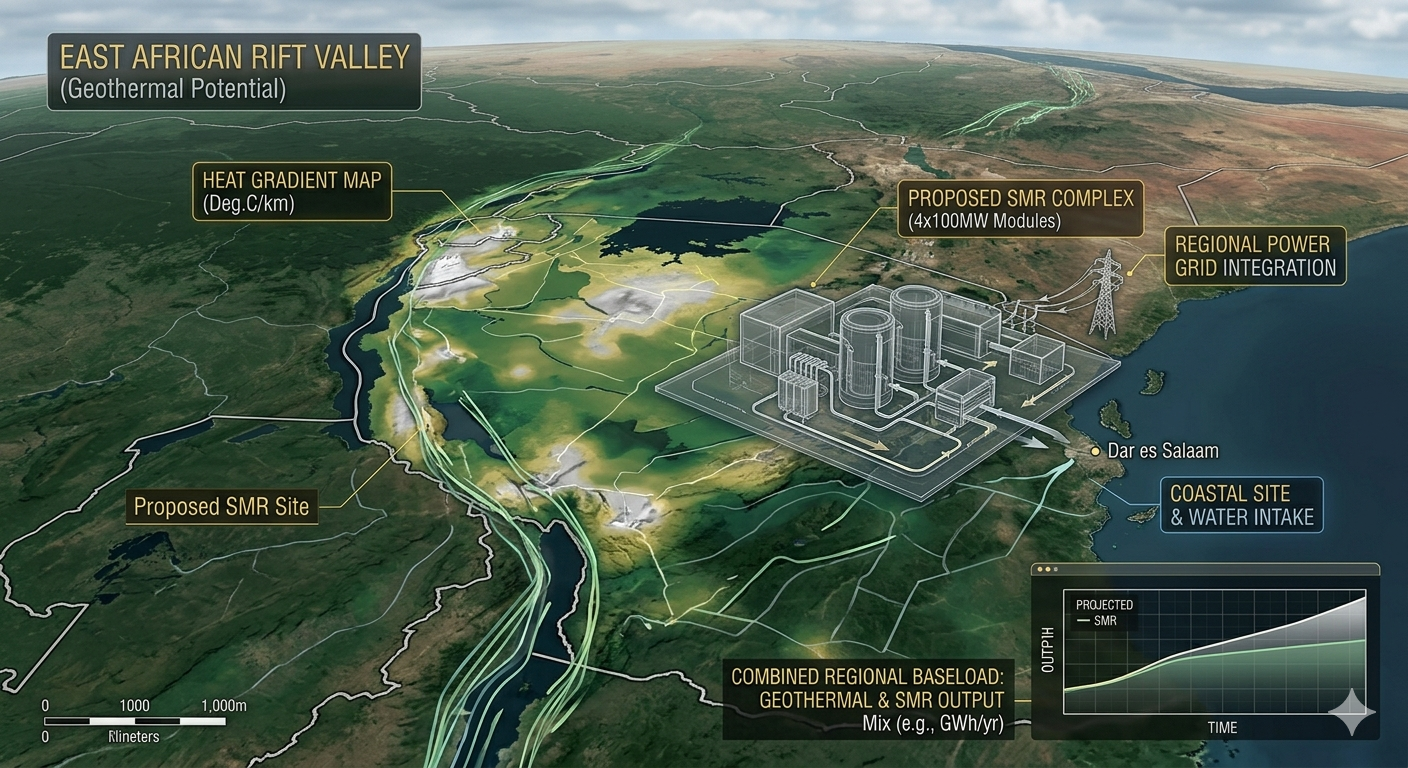
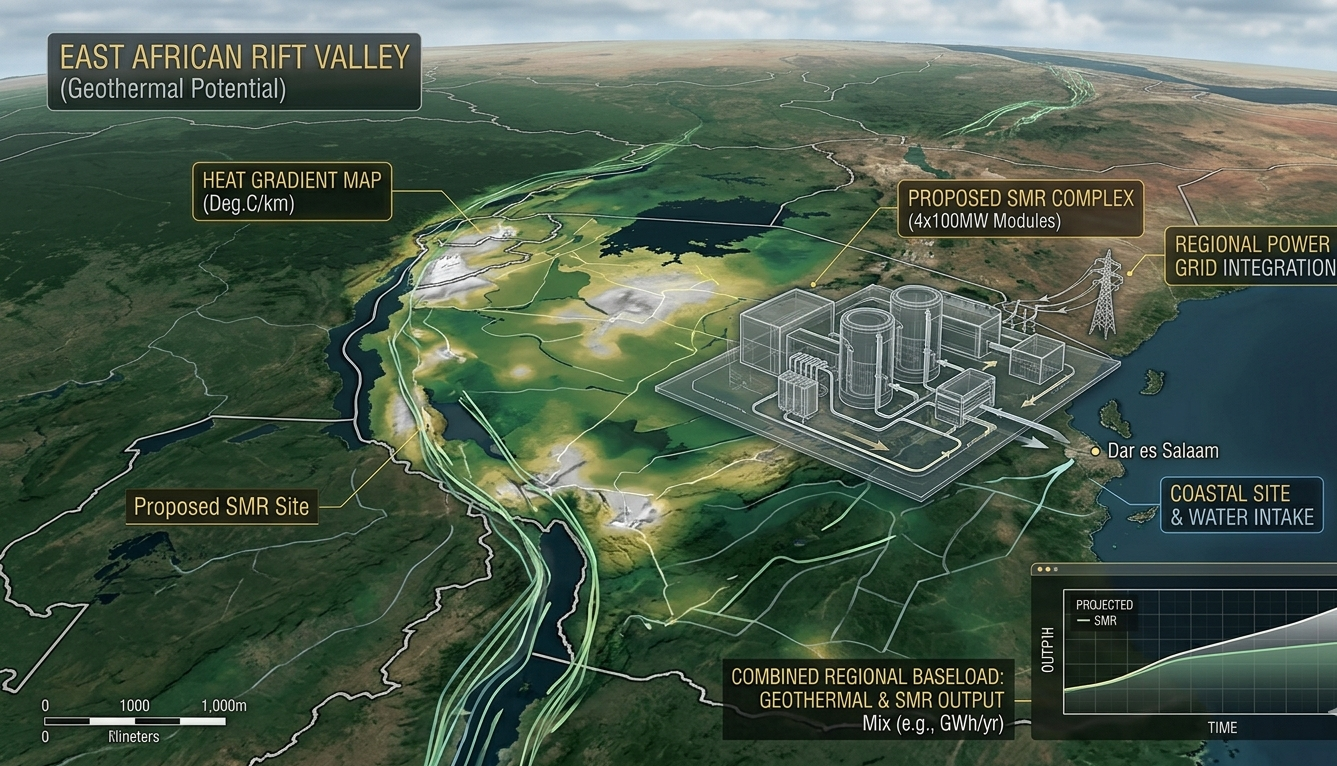
add:Images of other services

diff --git a/src/services/data.js b/src/services/data.js
@@ -182,7 +182,7 @@ export const SERVICES_DATA = {
   "reverse-osmosis": {
     title: "Reverse Osmosis (RO) Systems",
     subtitle: "High-Purity Water Production",
-    heroImage: "/waterTreatment.png",
+    heroImage: "/reverseOsmosis.png",
     accent: "bg-gw-sky",
     category: "Water Solutions",
     content: [
@@ -193,7 +193,7 @@ export const SERVICES_DATA = {
   "ultrafiltration": {
     title: "Filtration & Ultrafiltration",
     subtitle: "Membrane Technology",
-    heroImage: "/waterTreatment.png",
+    heroImage: "/ultrafiltration.png",
     accent: "bg-gw-sky",
     category: "Water Solutions",
     content: [
@@ -236,7 +236,7 @@ export const SERVICES_DATA = {
   "borehole-flushing": {
     title: "Water Borehole Flushing",
     subtitle: "Maximize Flow Rate",
-    heroImage: "/boreHole.png",
+    heroImage: "/boreholeflushing.png",
     accent: "bg-gw-sky",
     category: "Water Solutions",
     content: [